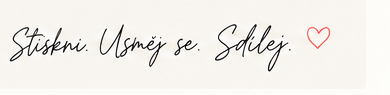
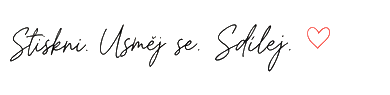
Refine hero tagline treatment

diff --git a/styles.css b/styles.css
@@ -309,7 +309,7 @@ h1, h2, h3 { font-weight: 800; letter-spacing: -.045em; }
 .hero h1 { max-width: 540px; margin: 0 0 28px; font-size: clamp(3.45rem, 5.25vw, 5.5rem); }
 .hero h1::after { display: inline-block; content: "♡"; margin-left: 14px; color: var(--coral); font-size: .73em; font-weight: 400; transform: rotate(8deg); }
 .hero-lead { max-width: 540px; margin-bottom: 28px; font-size: 1rem; line-height: 1.75; }
-.hero-tagline { width: min(300px, 78%); margin-top: 34px; mix-blend-mode: multiply; }
+.hero-tagline { width: min(390px, 92%); margin: 42px 0 0 -4px; transform: rotate(-7deg); transform-origin: left center; }
 .hero-collage { position: relative; min-height: 555px; }
 .polaroid { position: absolute; width: min(245px, 37%); margin: 0; padding: 9px 9px 38px; background: #fff; box-shadow: 0 24px 55px rgba(31,31,31,.2); }
 .polaroid img { width: 100%; aspect-ratio: 4/5; object-fit: cover; object-position: center 34%; filter: grayscale(1) contrast(1.04); }
@@ -377,7 +377,7 @@ h1, h2, h3 { font-weight: 800; letter-spacing: -.045em; }
   .hero-copy { max-width: none; }
   .hero h1 { max-width: 560px; font-size: clamp(2.75rem, 13vw, 4.25rem); }
   .hero-lead { font-size: .93rem; }
-  .hero-tagline { width: 250px; margin-top: 26px; }
+  .hero-tagline { width: min(330px, 90vw); margin: 34px 0 4px -2px; transform: rotate(-7deg); }
   .hero-collage { width: min(560px, 100%); min-height: 435px; margin-inline: auto; }
   .polaroid { width: 41%; }
   .polaroid-one { top: 76px; left: 1%; }
